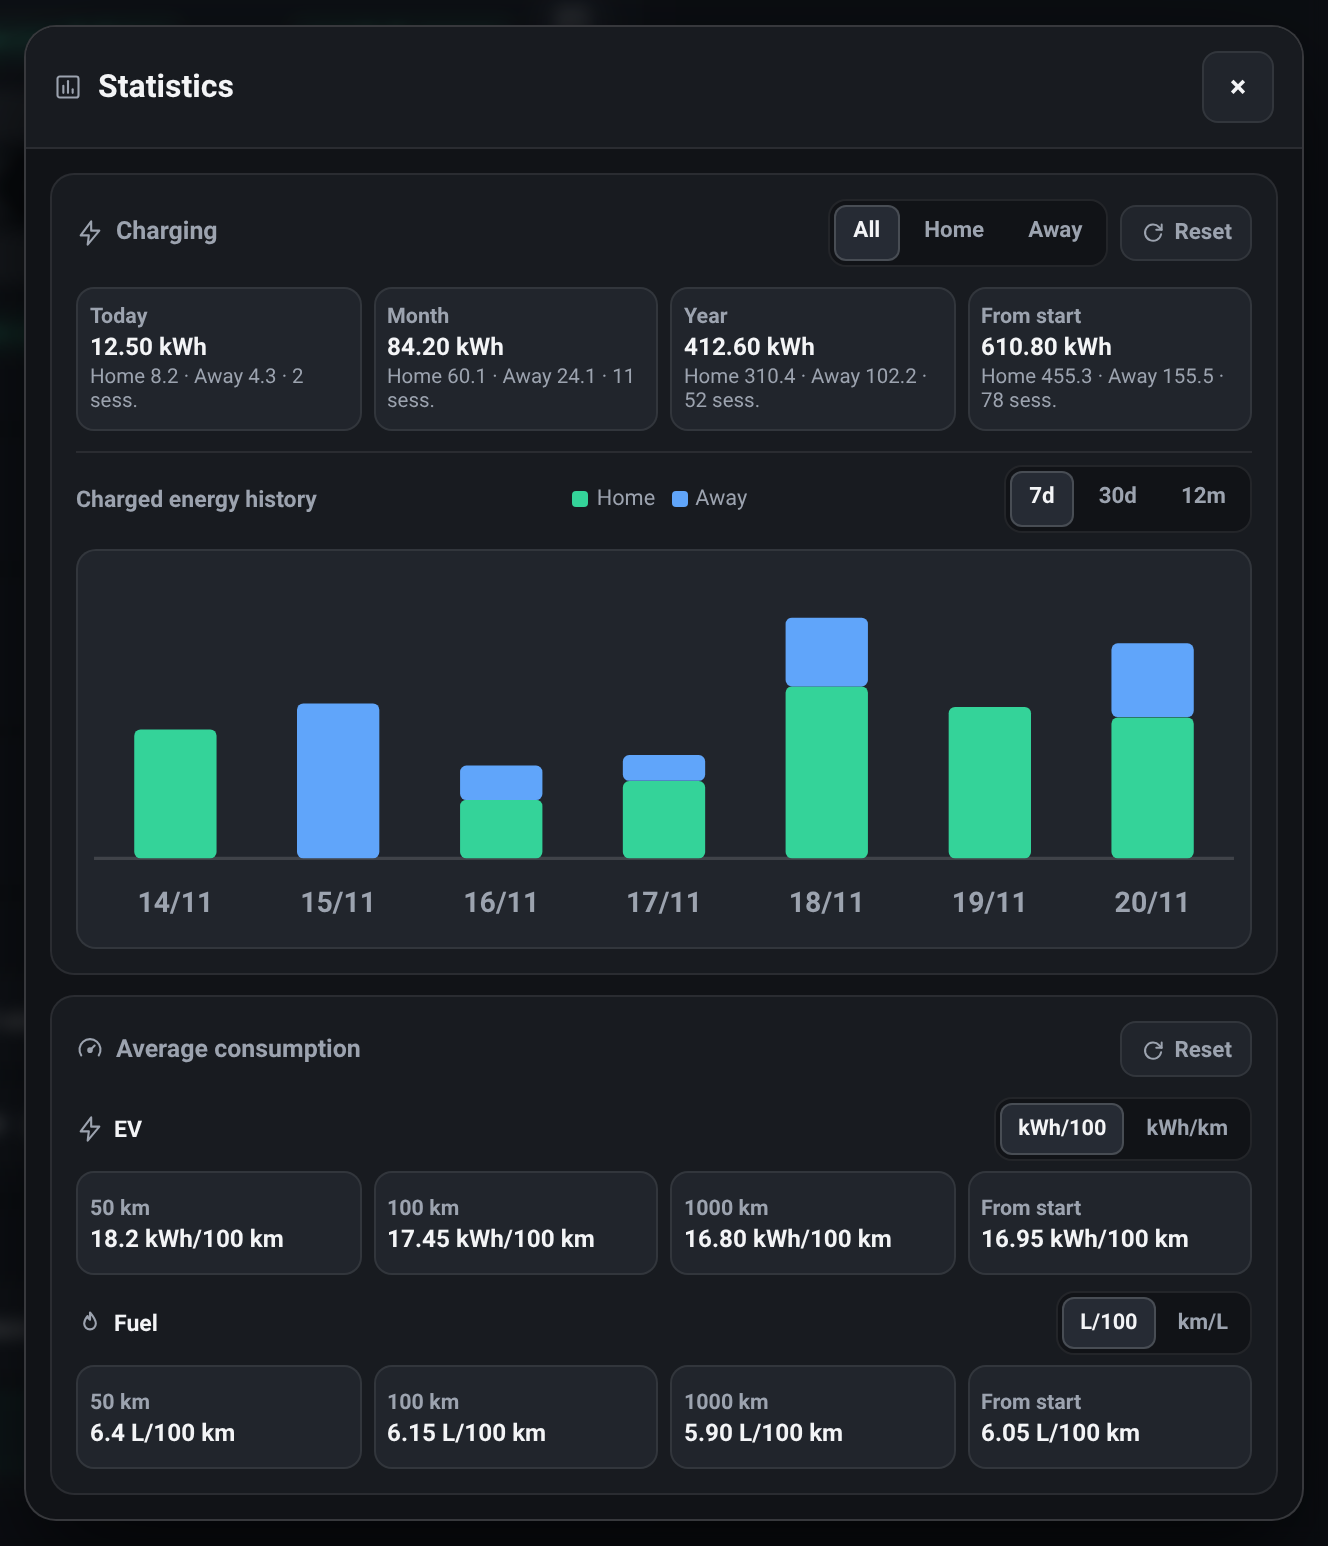
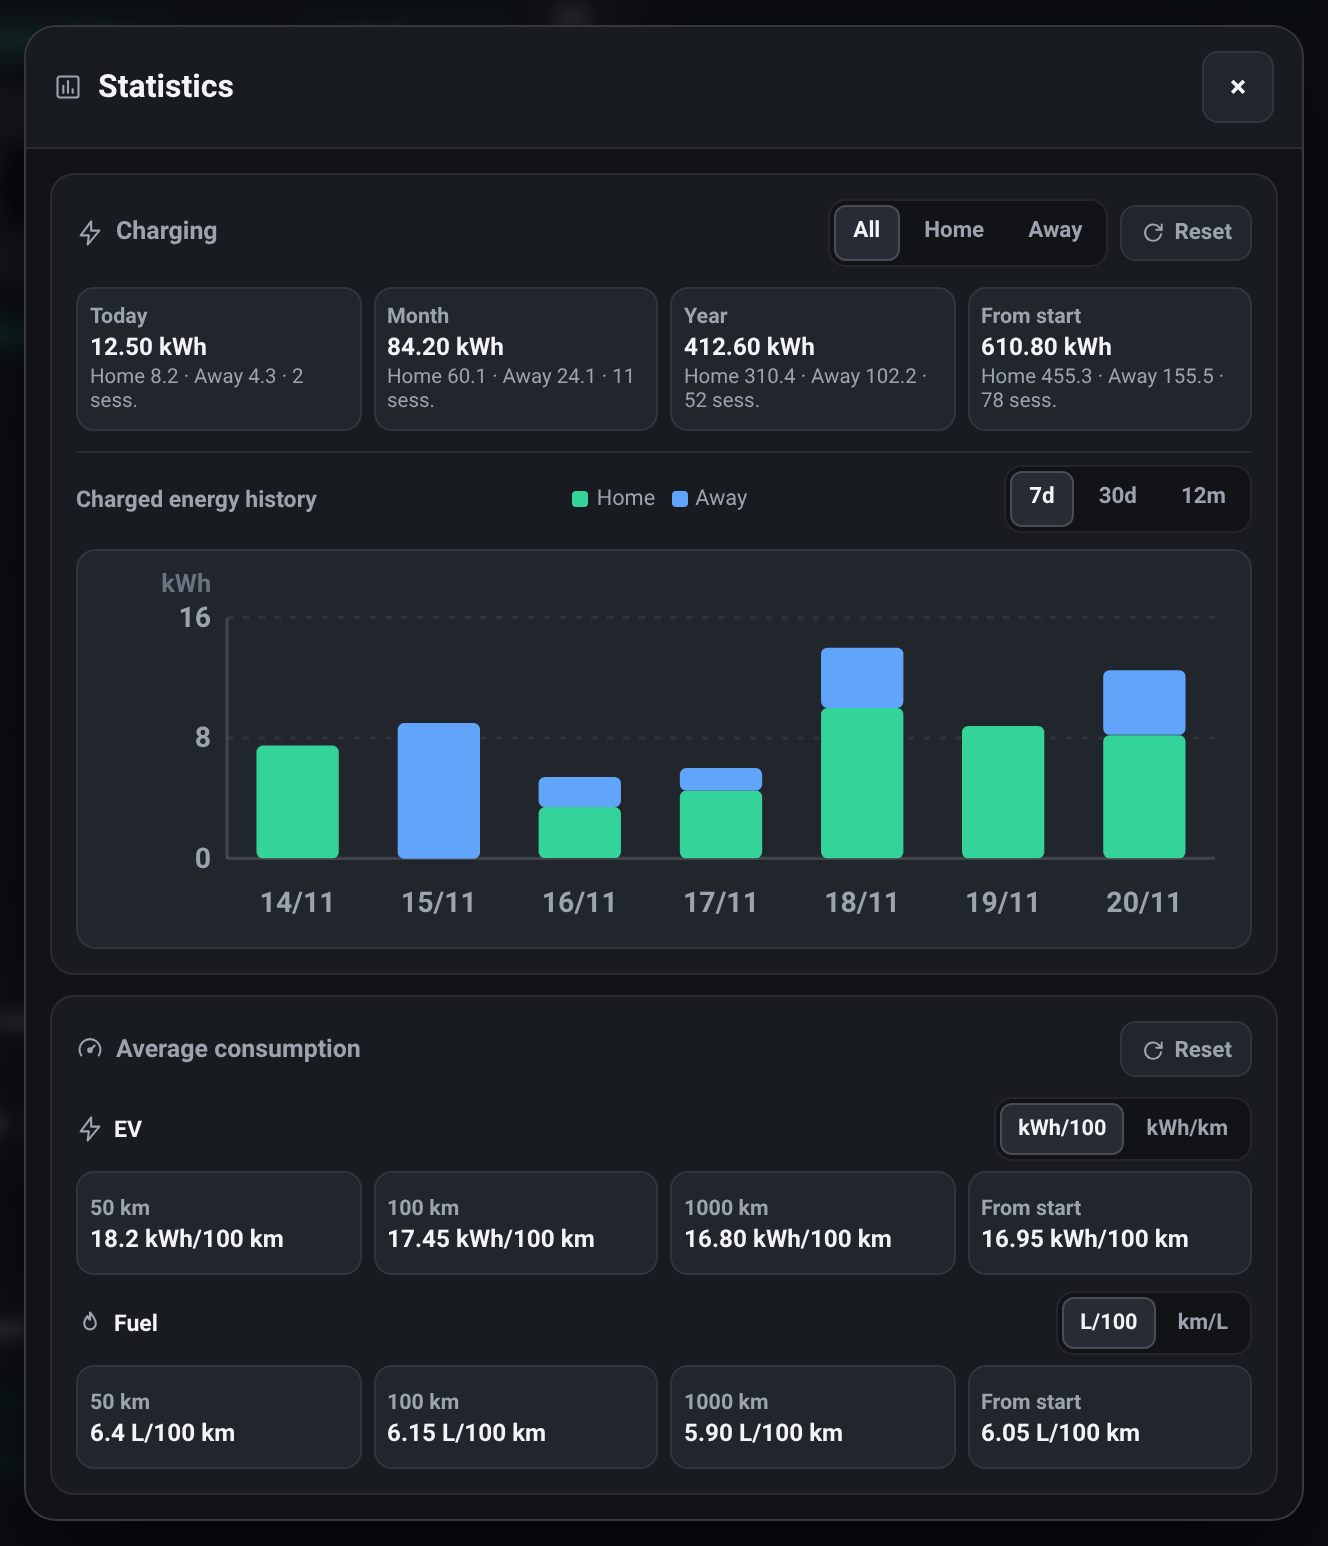
fix(card): v1.32.1 add kWh Y-axis and gridlines to statistics modal bar chart

diff --git a/custom_components/lepas/lovelace/lepas-card.js b/custom_components/lepas/lovelace/lepas-card.js
@@ -1,5 +1,5 @@
 /*
- * Lepas vehicle card — Matte Titanium OEM edition (Lepas Connect v1.32.0).
+ * Lepas vehicle card — Matte Titanium OEM edition (Lepas Connect v1.32.1).
  *
  * Adaptive single-bundle Web Component:
  *   - Compact 4-tab layout below 680px (Overview, Climate, Charging, Security)
@@ -11,7 +11,7 @@
  *   - No top-level ES module import/export (passes CJS syntax checks and HA module loading)
  */
 (function () {
-  var CARD_VERSION = "1.32.0";
+  var CARD_VERSION = "1.32.1";
   var _socGradSeq = 0;
   var VALID_COLORS = ["grey", "teal", "violet", "black", "white"];
   var VALID_LAYOUTS = ["auto", "compact", "cockpit"];
@@ -96,13 +96,13 @@
   };
 
   var HERO_IMAGES = {
-    grey: "/lepas_card/lepas-hero-grey.png?v=1.32.0",
-    teal: "/lepas_card/lepas-hero-teal.png?v=1.32.0",
-    violet: "/lepas_card/lepas-hero-violet.png?v=1.32.0",
-    black: "/lepas_card/lepas-hero-black.png?v=1.32.0",
-    white: "/lepas_card/lepas-hero-white.png?v=1.32.0",
+    grey: "/lepas_card/lepas-hero-grey.png?v=1.32.1",
+    teal: "/lepas_card/lepas-hero-teal.png?v=1.32.1",
+    violet: "/lepas_card/lepas-hero-violet.png?v=1.32.1",
+    black: "/lepas_card/lepas-hero-black.png?v=1.32.1",
+    white: "/lepas_card/lepas-hero-white.png?v=1.32.1",
   };
-  var DEFAULT_HERO = "/lepas_card/lepas-hero.png?v=1.32.0";
+  var DEFAULT_HERO = "/lepas_card/lepas-hero.png?v=1.32.1";
 
   var CONFIRM_ACTIONS = Object.freeze({
     wake_car: true,
@@ -1488,6 +1488,19 @@
     return { points: points, maxTotal: maxTotal };
   }
 
+  function niceChartStep(maxVal) {
+    if (!(maxVal > 0)) return 1;
+    var target = maxVal / 2;
+    var mag = Math.pow(10, Math.floor(Math.log(target) / Math.LN10));
+    var norm = target / mag;
+    var steps = [1, 1.5, 2, 2.5, 3, 4, 5, 6, 8, 10];
+    var nice = 10;
+    for (var i = 0; i < steps.length; i += 1) {
+      if (norm <= steps[i] + 1e-9) { nice = steps[i]; break; }
+    }
+    return Number((nice * mag).toPrecision(6));
+  }
+
   function renderChargingChartSvg(chartData, scope, chartRange, t) {
     var points = chartData.points;
     var maxTotal = chartData.maxTotal;
@@ -1496,26 +1509,31 @@
     }
     var n = points.length;
     var width = 360;
+    var plotX = 42;
+    var plotW = width - plotX - 6;
     var baseY = 92;
     var plotH = 76;
-    var slotW = width / n;
+    var topY = baseY - plotH;
+    var yStep = niceChartStep(maxTotal);
+    var scaleMax = Number((yStep * 2).toPrecision(6));
+    var slotW = plotW / n;
     var barW = Math.max(4, Math.min(26, slotW * 0.62));
     var labelStep = n > 12 ? Math.ceil(n / 6) : 1;
 
     var colsHtml = points.map(function (pt, idx) {
-      var slotX = idx * slotW;
+      var slotX = plotX + idx * slotW;
       var barX = slotX + (slotW - barW) / 2;
       var curY = baseY;
       var segs = [];
 
       var pushSeg = function (val, cls, segName, color) {
         if (val <= 0) return;
-        var h = (val / maxTotal) * plotH;
+        var h = (val / scaleMax) * plotH;
         if (h < 1.5) h = 1.5;
         var y = curY - h;
-        if (y < 10) {
-          h = curY - 10;
-          y = 10;
+        if (y < topY) {
+          h = curY - topY;
+          y = topY;
         }
         curY = y;
         segs.push(
@@ -1547,14 +1565,27 @@
       var safeDetail = escapeHtml(detail);
       return '<g class="chart-bar-col" tabindex="0" role="button" data-bar-idx="' + idx + '" data-bar-detail="' + safeDetail + '" aria-label="' + safeDetail + '">' +
         "<title>" + safeDetail + "</title>" +
-        '<rect class="chart-bar-hit" x="' + slotX.toFixed(1) + '" y="8" width="' + slotW.toFixed(1) + '" height="88" fill="transparent"/>' +
+        '<rect class="chart-bar-hit" x="' + slotX.toFixed(1) + '" y="' + topY + '" width="' + slotW.toFixed(1) + '" height="' + (plotH + 4) + '" fill="transparent"/>' +
         segs.join("") +
         lblHtml +
       "</g>";
     }).join("");
 
+    var yTicks = [
+      { val: 0, y: baseY, grid: false },
+      { val: yStep, y: baseY - plotH / 2, grid: true },
+      { val: scaleMax, y: topY, grid: true },
+    ];
+    var yAxisHtml = '<line class="chart-yaxis" x1="' + plotX + '" y1="' + topY + '" x2="' + plotX + '" y2="' + baseY + '"/>' +
+      '<text class="chart-yaxis-unit" x="' + (plotX - 5) + '" y="8" text-anchor="end">kWh</text>' +
+      yTicks.map(function (tk) {
+        return (tk.grid ? '<line class="chart-gridline" x1="' + plotX + '" y1="' + tk.y + '" x2="' + (width - 6) + '" y2="' + tk.y + '"/>' : "") +
+          '<text class="chart-yaxis-lbl" x="' + (plotX - 5) + '" y="' + (tk.y + 3) + '" text-anchor="end">' + escapeHtml(formatCompactNumber(tk.val)) + "</text>";
+      }).join("");
+
     return '<svg class="stats-chart-svg" viewBox="0 0 360 118" role="img" aria-label="' + escapeHtml(t.statsChartAriaLabel) + '">' +
-      '<line class="chart-baseline" x1="0" y1="' + baseY + '" x2="360" y2="' + baseY + '"/>' +
+      yAxisHtml +
+      '<line class="chart-baseline" x1="' + plotX + '" y1="' + baseY + '" x2="' + (width - 6) + '" y2="' + baseY + '"/>' +
       colsHtml +
     "</svg>";
   }
@@ -2111,8 +2142,10 @@
       ".stats-chart-seg { display: inline-grid; grid-template-columns: repeat(3, auto); gap: 2px; padding: 2px; border-radius: 9px; }",
       ".stats-chart-stage { background: var(--lp-elevated); border: 1px solid var(--lp-border); border-radius: 10px; padding: 8px 8px 4px; min-height: 112px; display: flex; align-items: center; justify-content: center; }",
       ".stats-chart-svg { width: 100%; height: auto; display: block; overflow: visible; }",
-      ".chart-baseline { stroke: rgba(255, 255, 255, 0.14); stroke-width: 1; }",
-      ".chart-axis-lbl { fill: #9CA3AF; font-size: 9px; font-weight: 600; }",
+      ".chart-baseline, .chart-yaxis { stroke: rgba(255, 255, 255, 0.14); stroke-width: 1; }",
+      ".chart-gridline { stroke: rgba(255, 255, 255, 0.07); stroke-width: 1; stroke-dasharray: 2 3; }",
+      ".chart-axis-lbl, .chart-yaxis-lbl { fill: #9CA3AF; font-size: 9px; font-weight: 600; }",
+      ".chart-yaxis-unit { fill: #6B7280; font-size: 8px; font-weight: 700; }",
       ".chart-bar-col { cursor: pointer; outline: none; }",
       ".chart-bar-col:focus-visible .chart-bar-seg { stroke: #F3F4F6; stroke-width: 1; }",
       ".stats-chart-empty { font-size: 0.76rem; color: var(--lp-text-muted); text-align: center; padding: 20px 8px; }",

diff --git a/CHANGELOG.md b/CHANGELOG.md
@@ -16,6 +16,16 @@ dell'integrazione: aggiorna da **HACS → Lepas Connect → Aggiorna**.
 
 ## [Non rilasciato]
 
+## v1.32.1 — 2026-11-20
+
+### 🇬🇧 English
+
+- **Statistics Modal Chart Y-Axis & `kWh` Scale (`lepas-card.js`, `docs/images/lepas-card-stats.png`)**: Added a vertical Y-axis (`chart-yaxis`), subtle mid/top horizontal dashed gridlines (`chart-gridline`), proportional `niceChartStep` scaling (`0`, mid, and top ticks), and a `kWh` unit legend (`chart-yaxis-unit`) to the **Charged energy history** SVG bar chart inside the Statistics modal so bar heights are immediately readable without hovering. Updated `docs/images/lepas-card-stats.png` and bumped card assets to `?v=1.32.1`.
+
+### 🇮🇹 Italiano
+
+- **Asse Verticale `kWh` e Griglie nel Grafico Statistiche (`lepas-card.js`, `docs/images/lepas-card-stats.png`)**: Aggiunti asse verticale (`chart-yaxis`), griglie orizzontali tratteggiate intermedia e superiore (`chart-gridline`), scala proporzionale dinamica tramite `niceChartStep` (`0`, valore intermedio e massimo) e legenda unità **`kWh`** (`chart-yaxis-unit`) nel grafico SVG **Storico energia ricaricata** della modale Statistiche, così da rendere leggibili a colpo d'occhio i valori delle barre. Aggiornato `docs/images/lepas-card-stats.png` e aggiornati gli asset della card a `?v=1.32.1`.
+
 ## v1.32.0 — 2026-11-20
 
 ### 🇬🇧 English

diff --git a/README.md b/README.md
@@ -7,7 +7,7 @@
 
 # Lepas Connect (`custom_components/lepas`)
 
-## Home Assistant custom integration and async Python client for the **Lepas L8** connected vehicle platform (**Chery EU**, `com.chery.eu.lepas`) — currently **v1.32.0** (Home Assistant `2024.1.0+`, Python `3.13+`).
+## Home Assistant custom integration and async Python client for the **Lepas L8** connected vehicle platform (**Chery EU**, `com.chery.eu.lepas`) — currently **v1.32.1** (Home Assistant `2024.1.0+`, Python `3.13+`).
 
 > [!CAUTION]
 > **Active Development & Use at Your Own Risk Disclaimer**
